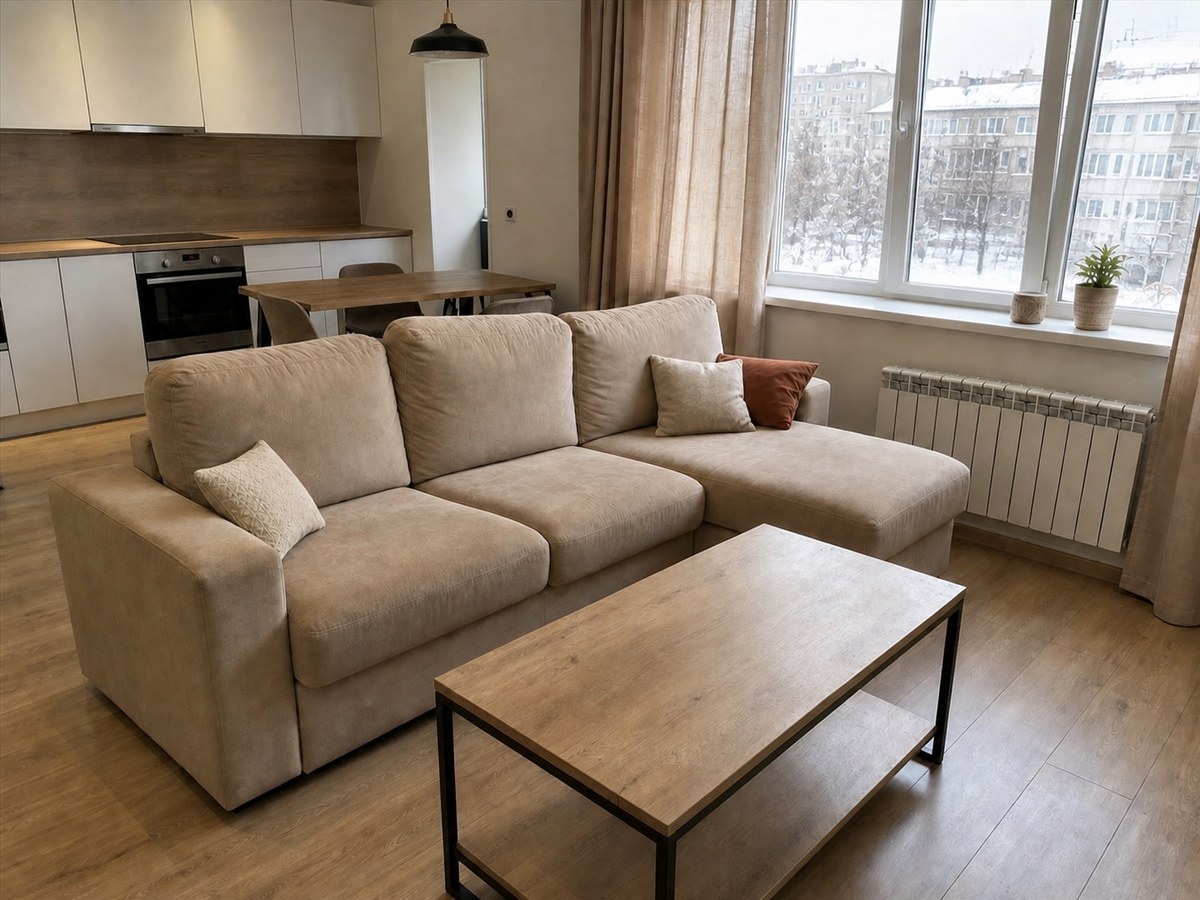
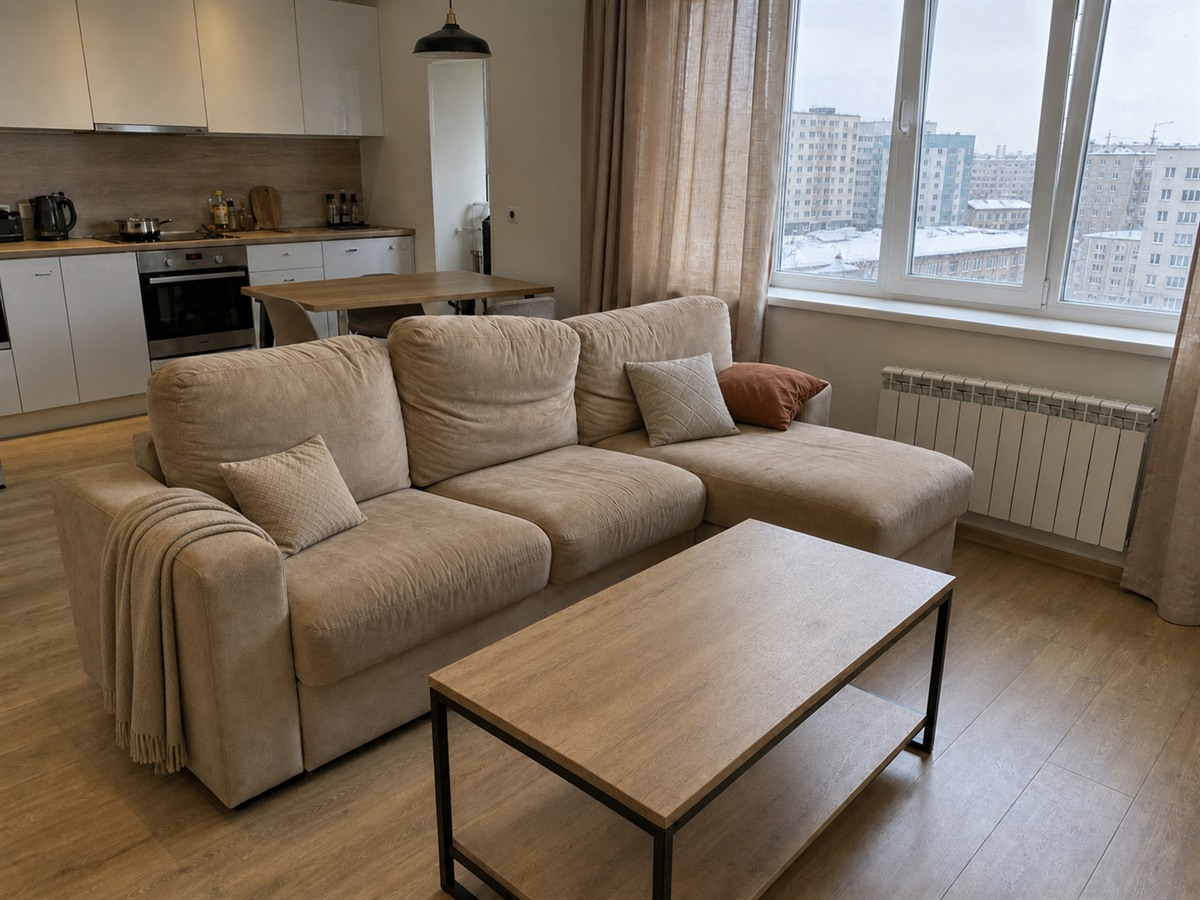
Fix matching before and after photos

diff --git a/MEMORY.md b/MEMORY.md
@@ -48,3 +48,10 @@
 - Favicon по-прежнему полностью совпадает с сочинским эталоном; для сброса кэша в `index.html` и `site.webmanifest` используется версия `v=20260810`, а пути manifest сделаны относительными.
 - После публикации главную страницу нужно отправить на переобход в Яндекс Вебмастере. Перед запуском рекламы дополнительно проверить живой домен, четыре цели Метрики и статус переобхода.
 
+## Правило для кейсов «до/после» — 2026-08-10
+
+- Фото «после» всегда создаётся редактированием соответствующего production-файла «до», а не отдельной генерацией сцены.
+- В паре должны быть неизменны объект, камера, кадрирование, перспектива, стены, пол, двери, окна, радиаторы, мебель, дома и другие детали за окном, время суток, погода и сезон.
+- Допустимое отличие только одно: после уборки удалены грязь, пыль, мусор и беспорядок, а существующие вещи аккуратно разложены. Нельзя менять интерьер, архитектуру, пейзаж или добавлять постановочный декор.
+- Для первых двух кейсов Нового Уренгоя эталоном являются `case1-before.jpg` и `case2-before.jpg`; исправленные `case1-after.jpg` и `case2-after.jpg` получены непосредственно из этих файлов с сохранением зимнего вида.
+
